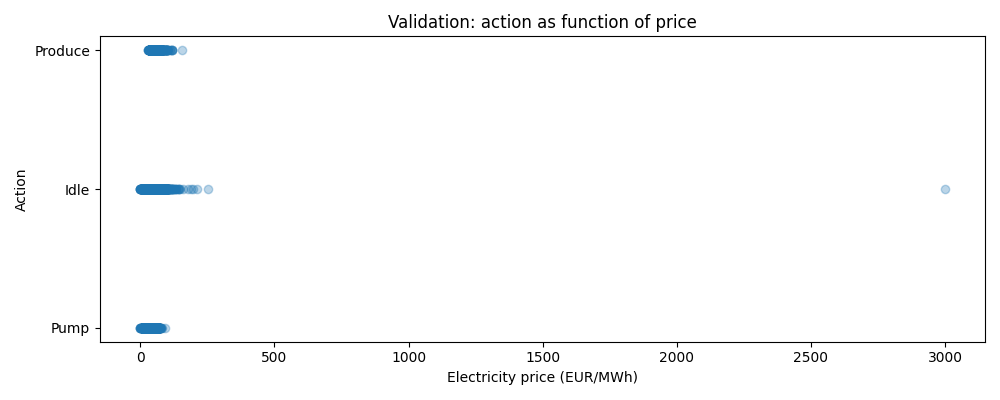
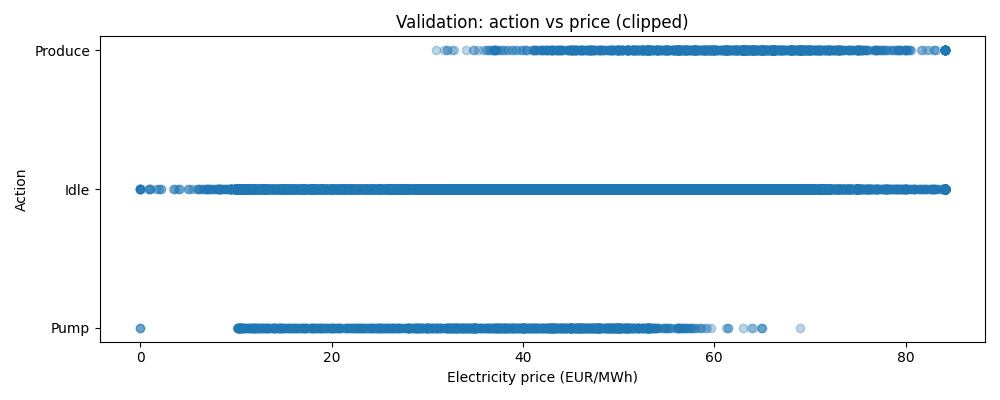
updated plots val

diff --git a/baseline3.py b/baseline3.py
@@ -4,9 +4,9 @@ import pandas as pd
 import matplotlib.pyplot as plt
 import seaborn as sns
 
-# ===============================
-# Configuration
-# ===============================
+# ============================================================
+# CONFIG
+# ============================================================
 IMG_DIR = "img"
 os.makedirs(IMG_DIR, exist_ok=True)
 
@@ -15,35 +15,31 @@ MAX_VOLUME = 100_000     # m3
 G = 9.81
 H = 30
 
+UPPER_MARGIN = 1.08   # deadband
+LOWER_MARGIN = 0.92
+
 HOUR_COLS = [f"Hour {h:02d}" for h in range(1, 25)]
 
-# ===============================
-# Load data
-# ===============================
-train = pd.read_excel("train.xlsx")
-val   = pd.read_excel("validate.xlsx")
-
-# Rename and parse date column
-train = train.rename(columns={"PRICES": "Date"})
-val   = val.rename(columns={"PRICES": "Date"})
+# ============================================================
+# LOAD DATA
+# ============================================================
+train = pd.read_excel("train.xlsx").rename(columns={"PRICES": "Date"})
+val   = pd.read_excel("validate.xlsx").rename(columns={"PRICES": "Date"})
 
 train["Date"] = pd.to_datetime(train["Date"])
 val["Date"]   = pd.to_datetime(val["Date"])
 
-# ===============================
-# Physics helpers
-# ===============================
+# ============================================================
+# PHYSICS HELPERS
+# ============================================================
 def potential_energy(volume_m3, g=G, h=H):
-    return volume_m3 * 1000 * g * h  # Joule
+    return volume_m3 * 1000 * g * h
 
 def calculate_per_hour(g=G, h=H):
     flow_m3_per_hour = 5 * 3600
     energy_per_m3 = 1000 * g * h
     hydro_energy_per_hour = flow_m3_per_hour * energy_per_m3
-
-    production = hydro_energy_per_hour * 0.9
-    pumping = hydro_energy_per_hour / 0.8
-    return production, pumping
+    return hydro_energy_per_hour * 0.9, hydro_energy_per_hour / 0.8
 
 def j_to_mwh(j):
     return j / 3.6e9
@@ -51,9 +47,9 @@ def j_to_mwh(j):
 MAX_ENERGY = potential_energy(MAX_VOLUME)
 MAX_PROD_J, MAX_PUMP_J = calculate_per_hour()
 
-# ===============================
-# Reshape to long format (TRAIN ONLY)
-# ===============================
+# ============================================================
+# TRAINING STATISTICS (TRAIN ONLY)
+# ============================================================
 train_long = train.melt(
     id_vars=["Date"],
     value_vars=HOUR_COLS,
@@ -65,9 +61,6 @@ train_long["Hour"] = train_long["Hour"].str.extract(r"(\d+)").astype(int) - 1
 train_long["Weekday"] = train_long["Date"].dt.weekday
 train_long["DayOfYear"] = train_long["Date"].dt.dayofyear
 
-# ===============================
-# Hourly mean by weekday
-# ===============================
 weekday_hour_mean = (
     train_long
     .groupby(["Weekday", "Hour"])["Price"]
@@ -75,106 +68,11 @@ weekday_hour_mean = (
     .unstack()
 )
 
-plt.figure(figsize=(12, 6))
-weekday_hour_mean.T.plot(ax=plt.gca())
-plt.xlabel("Hour of day")
-plt.ylabel("Mean price (EUR/MWh)")
-plt.title("Hourly mean price by weekday (train)")
-plt.legend(
-    ["Mon", "Tue", "Wed", "Thu", "Fri", "Sat", "Sun"],
-    title="Weekday"
-)
-plt.tight_layout()
-plt.savefig(os.path.join(IMG_DIR, "hourly_mean_by_weekday.png"))
-plt.close()
-
-# ===============================
-# Mean price by day of year
-# ===============================
-dayofyear_mean = (
-    train_long
-    .groupby("DayOfYear")["Price"]
-    .mean()
-)
-
-plt.figure(figsize=(12, 4))
-plt.plot(dayofyear_mean.index, dayofyear_mean.values)
-plt.xlabel("Day of year")
-plt.ylabel("Mean price (EUR/MWh)")
-plt.title("Mean price by day of year (train)")
-plt.tight_layout()
-plt.savefig(os.path.join(IMG_DIR, "mean_price_day_of_year.png"))
-plt.close()
-
-# ===============================
-# Heatmap weekday x hour
-# ===============================
-plt.figure(figsize=(10, 5))
-sns.heatmap(
-    weekday_hour_mean,
-    cmap="viridis",
-    xticklabels=range(24),
-    yticklabels=["Mon", "Tue", "Wed", "Thu", "Fri", "Sat", "Sun"]
-)
-plt.xlabel("Hour of day")
-plt.ylabel("Weekday")
-plt.title("Mean price heatmap (weekday x hour, train)")
-plt.tight_layout()
-plt.savefig(os.path.join(IMG_DIR, "heatmap_weekday_hour.png"))
-plt.close()
-
-# ===============================
-# Expected price tables
-# ===============================
-expected_price_wh = weekday_hour_mean
-expected_price_doy = dayofyear_mean
-
-# ===============================
-# Modified baseline policy
-# ===============================
-def run_baseline(df):
-    reservoir_energy = potential_energy(START_RESERVOIR)
-    profit = 0.0
-
-    for _, row in df.iterrows():
-        date = row["Date"]
-        weekday = date.weekday()
-        dayofyear = date.dayofyear
-
-        for hour in range(24):
-            price = row[f"Hour {hour+1:02d}"]
-
-            exp_wh = expected_price_wh.loc[weekday, hour]
-            exp_doy = expected_price_doy.loc[dayofyear]
-
-            expected_price = 0.5 * exp_wh + 0.5 * exp_doy
-
-            if price > expected_price and reservoir_energy > 0:
-                energy_used = min(MAX_PROD_J, reservoir_energy)
-                reservoir_energy -= energy_used
-                profit += j_to_mwh(energy_used) * price
-
-            elif price < expected_price and reservoir_energy < MAX_ENERGY:
-                energy_added = min(MAX_PUMP_J, MAX_ENERGY - reservoir_energy)
-                reservoir_energy += energy_added * 0.8
-                profit -= j_to_mwh(energy_added) * price
-
-    return profit
-
-# ===============================
-# Run evaluation
-# ===============================
-train_profit = run_baseline(train)
-val_profit   = run_baseline(val)
-
-print(f"Train profit: {train_profit:.2f} EUR")
-print(f"Validation profit: {val_profit:.2f} EUR")
-
+dayofyear_mean = train_long.groupby("DayOfYear")["Price"].mean()
 
 # ============================================================
-# VALIDATION EVALUATION + PLOTS (VALIDATION SET ONLY)
+# BASELINE WITH FIXES (DEADBAND + STORAGE AWARE)
 # ============================================================
-
 def run_baseline_with_logging(df):
     reservoir_energy = potential_energy(START_RESERVOIR)
     profit = 0.0
@@ -182,32 +80,43 @@ def run_baseline_with_logging(df):
     profit_trace = []
     reservoir_trace = []
     price_trace = []
-    action_trace = []   # -1 = pump, 0 = idle, +1 = produce
+    action_trace = []
     time_trace = []
 
     t = 0
 
     for _, row in df.iterrows():
-        date = row["Date"]
-        weekday = date.weekday()
-        dayofyear = date.dayofyear
+        weekday = row["Date"].weekday()
+        dayofyear = row["Date"].dayofyear
 
         for hour in range(24):
             price = row[f"Hour {hour+1:02d}"]
 
-            exp_wh = expected_price_wh.loc[weekday, hour]
-            exp_doy = expected_price_doy.loc[dayofyear]
+            exp_wh = weekday_hour_mean.loc[weekday, hour]
+            exp_doy = dayofyear_mean.loc[dayofyear]
             expected_price = 0.5 * exp_wh + 0.5 * exp_doy
+
+            storage_frac = reservoir_energy / MAX_ENERGY
+            pump_allowed = storage_frac < 0.9
+            produce_allowed = storage_frac > 0.1
 
             action = 0
 
-            if price > expected_price and reservoir_energy > 0:
+            if (
+                price > expected_price * UPPER_MARGIN
+                and produce_allowed
+                and reservoir_energy > 0
+            ):
                 energy_used = min(MAX_PROD_J, reservoir_energy)
                 reservoir_energy -= energy_used
                 profit += j_to_mwh(energy_used) * price
                 action = 1
 
-            elif price < expected_price and reservoir_energy < MAX_ENERGY:
+            elif (
+                price < expected_price * LOWER_MARGIN
+                and pump_allowed
+                and reservoir_energy < MAX_ENERGY
+            ):
                 energy_added = min(MAX_PUMP_J, MAX_ENERGY - reservoir_energy)
                 reservoir_energy += energy_added * 0.8
                 profit -= j_to_mwh(energy_added) * price
@@ -229,18 +138,17 @@ def run_baseline_with_logging(df):
         "time": time_trace,
     }
 
-
 # ============================================================
-# RUN ON VALIDATION SET
+# RUN ON VALIDATION ONLY
 # ============================================================
 val_results = run_baseline_with_logging(val)
-
 print(f"Validation profit: {val_results['profit']:.2f} EUR")
 
+# ============================================================
+# PLOTS (VALIDATION)
+# ============================================================
 
-# ============================================================
-# PLOT 1: CUMULATIVE PROFIT
-# ============================================================
+# 1) Cumulative profit
 plt.figure(figsize=(10, 4))
 plt.plot(val_results["time"], val_results["profit_trace"])
 plt.xlabel("Time (hours)")
@@ -250,10 +158,7 @@ plt.tight_layout()
 plt.savefig(os.path.join(IMG_DIR, "val_cumulative_profit.png"))
 plt.close()
 
-
-# ============================================================
-# PLOT 2: RESERVOIR ENERGY
-# ============================================================
+# 2) Reservoir energy
 plt.figure(figsize=(10, 4))
 plt.plot(val_results["time"], val_results["reservoir_trace"])
 plt.xlabel("Time (hours)")
@@ -263,34 +168,25 @@ plt.tight_layout()
 plt.savefig(os.path.join(IMG_DIR, "val_reservoir_level.png"))
 plt.close()
 
+# 3) Action vs price (clipped for readability)
+prices = np.array(val_results["price_trace"])
+actions = np.array(val_results["action_trace"])
+price_clip = np.percentile(prices, 99)
+prices = np.clip(prices, None, price_clip)
 
-# ============================================================
-# PLOT 3: ACTION VS PRICE
-# ============================================================
 plt.figure(figsize=(10, 4))
-plt.scatter(
-    val_results["price_trace"],
-    val_results["action_trace"],
-    alpha=0.3
-)
+plt.scatter(prices, actions, alpha=0.3)
 plt.yticks([-1, 0, 1], ["Pump", "Idle", "Produce"])
 plt.xlabel("Electricity price (EUR/MWh)")
 plt.ylabel("Action")
-plt.title("Validation: action as function of price")
+plt.title("Validation: action vs price (clipped)")
 plt.tight_layout()
 plt.savefig(os.path.join(IMG_DIR, "val_action_vs_price.png"))
 plt.close()
 
-
-# ============================================================
-# PLOT 4: MEAN ACTION BY HOUR
-# ============================================================
-actions = np.array(val_results["action_trace"])
+# 4) Mean action by hour
 hours = np.array(val_results["time"]) % 24
-
-mean_action_by_hour = [
-    actions[hours == h].mean() for h in range(24)
-]
+mean_action_by_hour = [actions[hours == h].mean() for h in range(24)]
 
 plt.figure(figsize=(10, 4))
 plt.bar(range(24), mean_action_by_hour)
